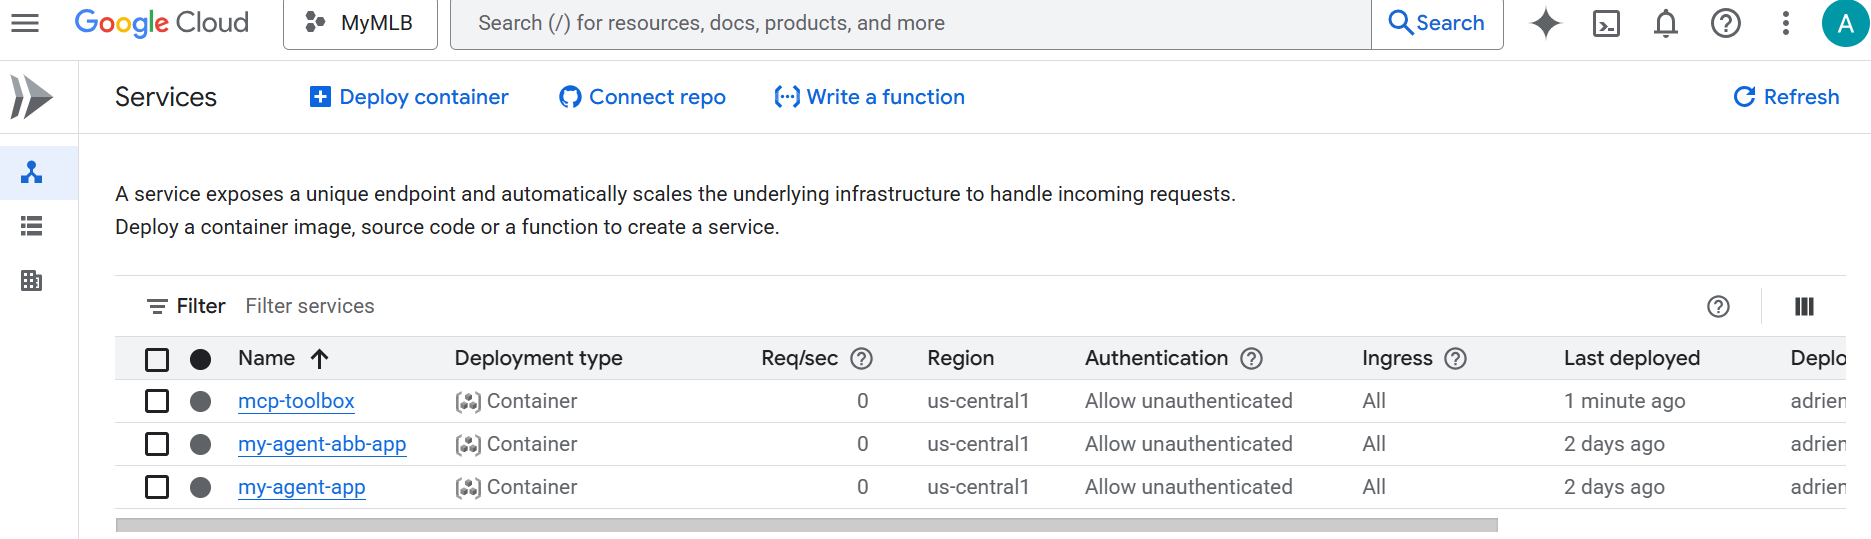
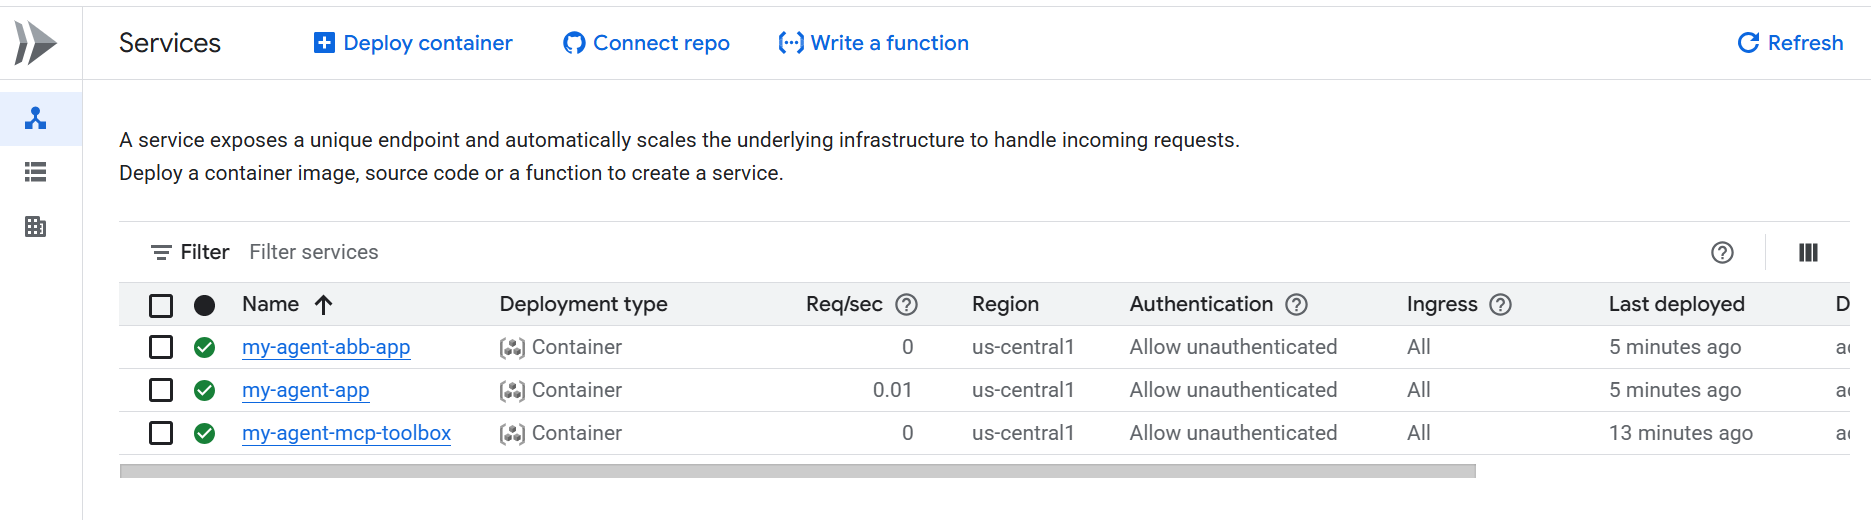
add appropriate mcp toolbox for SQL lite

diff --git a/README.md b/README.md
@@ -82,7 +82,7 @@ Tools List >
 
 Hotels Search with Weather Report on Cloud Run >
 
-![MyAgent Hotels Search with Weather Report on Cloud Run](https://github.com/lorcie/my-agent/blob/main/assets/my-agent-cloud-run-execution.png?raw=true)
+![MyAgent Hotels Search with Tools on Cloud Run](https://github.com/lorcie/my-agent/blob/main/assets/my-agent-cloud-run-with-tools-execution.png?raw=true)
 
 
 Hotels Search with Weather Report >
@@ -122,6 +122,8 @@ Then You can apply following Installation/Deployment Instructions for instance o
 
 The hotels database has been initiated using SQL Lite DB tool.
 
+#### Postgres Instructions with Google Cloud SQL
+
 However, Here are instructions for Postgres (example with POSTGRES_15) Database on **Google Cloud SQL**
 
 gcloud sql instances create my-agent-db \
@@ -138,6 +140,12 @@ gcloud sql databases create toolbox-db \
 --instance=my-agent-db
 
 // connect to the datanase server either with tool such as Google Cloud Studio either with CLI
+
+#### SQL Lite Instructions
+
+// Install the SQL lite tool depending on your OS
+
+// connect to the datanase server SQL Lite Tool and save to hotels.db
 
 // create the database schema
 
@@ -169,42 +177,40 @@ VALUES
 
 ### MCP Toolbox
 
-MCP Toolbox to Cloud Run deployment need to point the Cloud SQL Database.
-
 // go in directory mcp-toolbox
 
 cd mcp-toolbox
 
-First, update sources section of tools.yaml file in  to refer either your Cloud SQL instance (see tools4postgres.yaml), either your SQL Lite Database (tools.yaml):
+#### SQL Lite Instructions
 
-sources:
-  my-pg-source:
-    kind: cloud-sql-postgres
-    project: YOUr_PROJECT_ID
-    region: YOUR_GCP_REGION
-    instance: my-agent-db
-    database: toolbox-db
-    user: postgres
-    password: admin
+It will use the Dockerfile
 
-sources:
-  my-sqlite-source:
-    kind: sqlite
-    database: hotels.db
+export SERVICE_NAME='my-agent-mcp-toolbox'
 
-Then, configure the MCP Toolbox's Cloud Run service account to access both Secret Manager (and Cloud SQL if used). Secret Manager is where we'll store our tools.yaml file because it may contain potential sensitive Cloud SQL credentials. (not required for SQL lite database)
+export AR_REPO=YOUR_AR_REPO
 
-gcloud services enable run.googleapis.com \
-   cloudbuild.googleapis.com \
-   artifactregistry.googleapis.com \
-   iam.googleapis.com \
-   secretmanager.googleapis.com
-                       
-gcloud iam service-accounts create toolbox-identity
+export GCP_REGION=YOUR_REGION
 
-gcloud projects add-iam-policy-binding $PROJECT_ID \
-    --member serviceAccount:toolbox-identity@$PROJECT_ID.iam.gserviceaccount.com \
-    --role roles/secretmanager.secretAccessor
+export GCP_PROJECT=YOUR_PROJECT_ID
+
+gcloud artifacts repositories list
+
+// if not yet available, create AR_REPO
+gcloud artifacts repositories create "$AR_REPO" --location="$GCP_REGION" --repository-format=Docker
+
+gcloud auth configure-docker "$GCP_REGION-docker.pkg.dev"
+
+// build docker image
+
+gcloud builds submit --tag "$GCP_REGION-docker.pkg.dev/$GCP_PROJECT/$AR_REPO/$SERVICE_NAME" .
+
+// deploy on Cloud Run
+
+gcloud run deploy "$SERVICE_NAME" --port=5000 --image="$GCP_REGION-docker.pkg.dev/$GCP_PROJECT/$AR_REPO/$SERVICE_NAME"  --allow-unauthenticated --region=$GCP_REGION --platform=managed --project=$GCP_PROJECT
+
+#### Postgres Instructions with Google Cloud SQL
+
+MCP Toolbox to Cloud Run deployment need to point the Cloud SQL Database.
 
 // only for Cloud SQL
 gcloud projects add-iam-policy-binding $PROJECT_ID \
@@ -248,6 +254,7 @@ export GCP_PROJECT=YOUR_PROJECT_ID
 
 gcloud artifacts repositories list
 
+// if not yet available, create AR_REPO
 gcloud artifacts repositories create "$AR_REPO" --location="$GCP_REGION" --repository-format=Docker
 
 gcloud auth configure-docker "$GCP_REGION-docker.pkg.dev"
